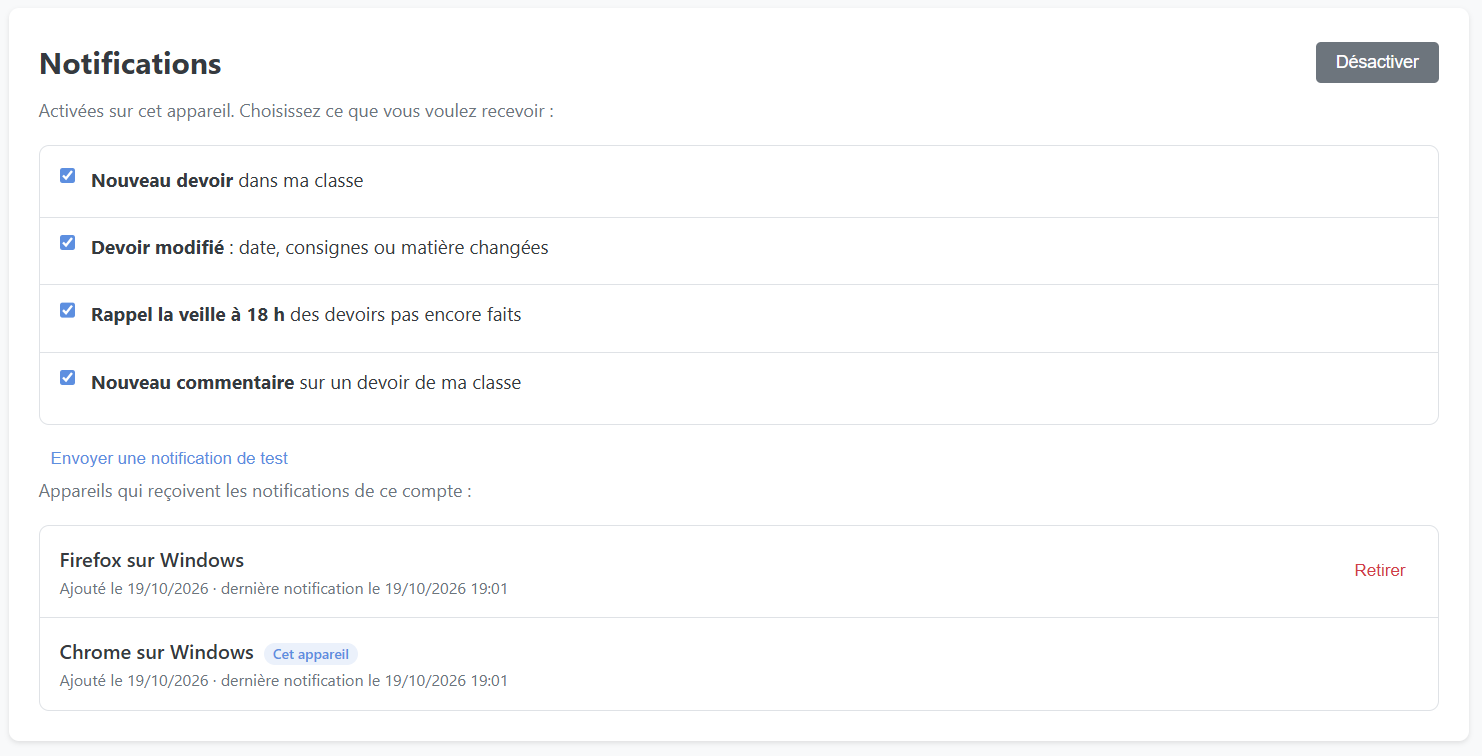
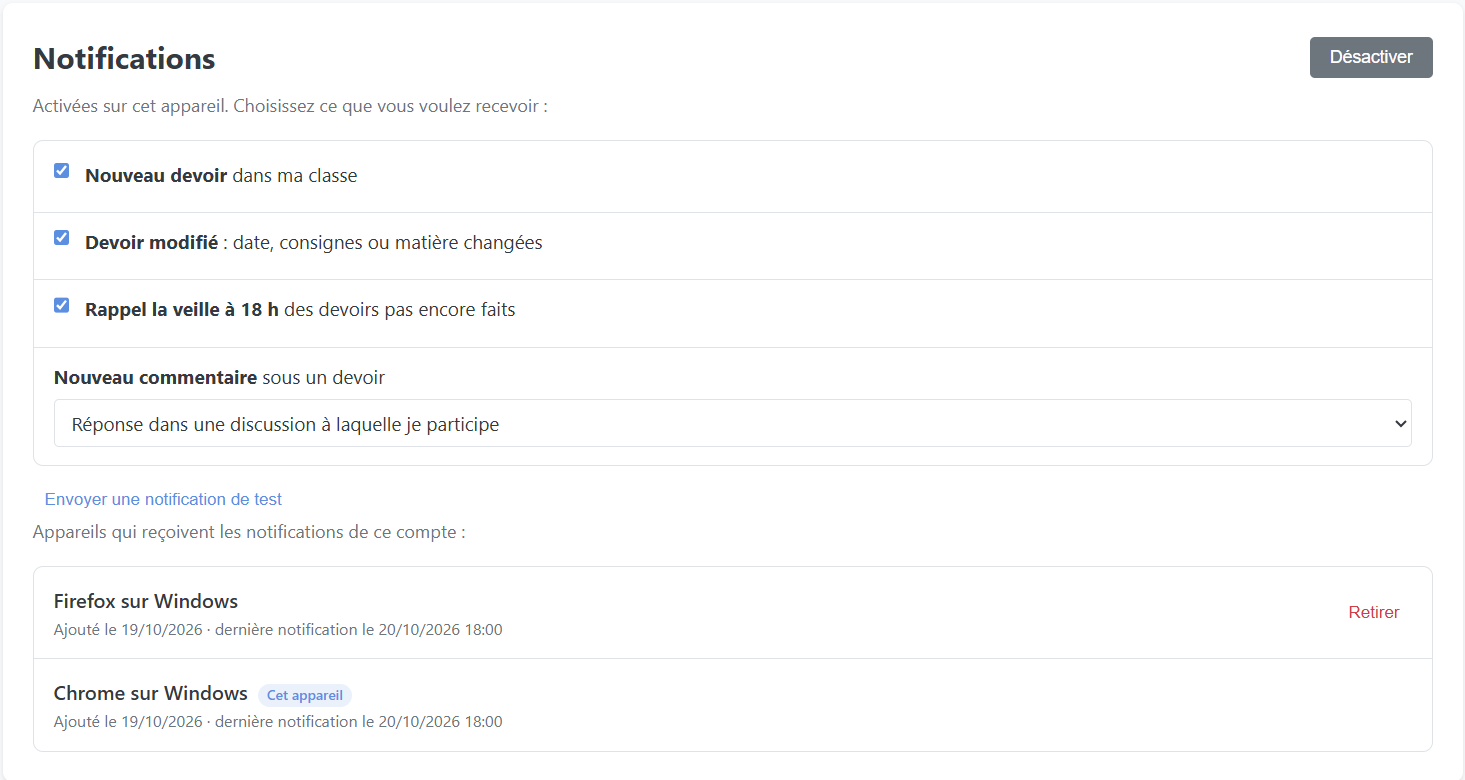
feat(push): choisir quels commentaires notifier
La préférence « Nouveau commentaire » propose désormais trois choix au lieu d'une case : tous les commentaires de la classe, seulement les discussions auxquelles l'élève participe (il a déjà commenté le devoir), ou aucun. Le choix par défaut est celui des discussions suivies, pour éviter de prévenir toute la classe à chaque message.

La migration 022, pas encore livrée, crée donc la colonne en ENUM('tous', 'participe', 'aucun'). L'envoi passe par notifyCommentaire, qui filtre les destinataires selon ce choix ; notifyClasse ne gère plus que les préférences booléennes. Dans les paramètres, la case devient une liste déroulante.

diff --git a/backend/services/push.js b/backend/services/push.js
@@ -20,8 +20,12 @@ const VAPID_SETTING_KEY = 'push_vapid_keys';
 const DEFAULT_SUBJECT = 'mailto:contact@eniv.fr';
 
 // Préférences par défaut d'un utilisateur qui n'a jamais rien réglé
-const DEFAULT_PREFERENCES = { nouveau_devoir: true, devoir_modifie: true, rappel_veille: true, nouveau_commentaire: true };
-const PREFERENCE_KEYS = Object.keys(DEFAULT_PREFERENCES);
+const DEFAULT_PREFERENCES = { nouveau_devoir: true, devoir_modifie: true, rappel_veille: true, nouveau_commentaire: 'participe' };
+const BOOLEAN_PREFERENCES = ['nouveau_devoir', 'devoir_modifie', 'rappel_veille'];
+
+// Commentaires : tous ceux de la classe, seulement les discussions où l'élève
+// a déjà écrit, ou aucun
+const COMMENTAIRE_MODES = ['tous', 'participe', 'aucun'];
 
 // Le serveur envoie un POST à l'endpoint : seuls les services push des
 // navigateurs sont acceptés, sinon un élève pourrait faire appeler une adresse
@@ -182,14 +186,19 @@ async function deleteSubscription(userId, endpoint) {
 async function getPreferences(userId) {
   const row = await db.get('SELECT * FROM push_preferences WHERE user_id = ?', [userId]);
   if (!row) return { ...DEFAULT_PREFERENCES };
-  return Object.fromEntries(PREFERENCE_KEYS.map((key) => [key, Boolean(row[key])]));
+  const prefs = Object.fromEntries(BOOLEAN_PREFERENCES.map((key) => [key, Boolean(row[key])]));
+  prefs.nouveau_commentaire = COMMENTAIRE_MODES.includes(row.nouveau_commentaire)
+    ? row.nouveau_commentaire
+    : DEFAULT_PREFERENCES.nouveau_commentaire;
+  return prefs;
 }
 
 async function setPreferences(userId, input) {
   const prefs = { ...(await getPreferences(userId)) };
-  for (const key of PREFERENCE_KEYS) {
+  for (const key of BOOLEAN_PREFERENCES) {
     if (typeof input[key] === 'boolean') prefs[key] = input[key];
   }
+  if (COMMENTAIRE_MODES.includes(input.nouveau_commentaire)) prefs.nouveau_commentaire = input.nouveau_commentaire;
   await db.run(
     `INSERT INTO push_preferences (user_id, nouveau_devoir, devoir_modifie, rappel_veille, nouveau_commentaire)
      VALUES (?, ?, ?, ?, ?)
@@ -244,12 +253,12 @@ async function sendToUser(userId, payload) {
 /**
  * Notifie tous les membres d'une classe ayant activé la préférence donnée.
  * @param {number} classeId
- * @param {'nouveau_devoir'|'devoir_modifie'|'nouveau_commentaire'} preference
+ * @param {'nouveau_devoir'|'devoir_modifie'} preference
  * @param {Object} payload - { title, body, url, tag }
  * @param {number|null} excludeUserId - auteur de l'action, qui n'a pas besoin d'être prévenu
  */
 async function notifyClasse(classeId, preference, payload, excludeUserId = null) {
-  if (!PREFERENCE_KEYS.includes(preference)) throw new Error(`Préférence inconnue : ${preference}`);
+  if (!BOOLEAN_PREFERENCES.includes(preference)) throw new Error(`Préférence inconnue : ${preference}`);
 
   const subs = await db.all(
     `SELECT ps.*
@@ -258,6 +267,34 @@ async function notifyClasse(classeId, preference, payload, excludeUserId = null)
      LEFT JOIN push_preferences pp ON pp.user_id = u.id
      WHERE u.classe_id = ? AND u.id <> ? AND COALESCE(pp.${preference}, TRUE)`,
     [classeId, excludeUserId || 0]
+  );
+  return sendToSubscriptions(subs, payload);
+}
+
+/**
+ * Prévient la classe d'un nouveau commentaire sur un devoir, selon la
+ * préférence nouveau_commentaire de chacun. Le commentaire est déjà enregistré :
+ * l'auteur est exclu, son message ne le fait donc pas compter comme participant.
+ * @param {number} classeId
+ * @param {number} devoirId
+ * @param {Object} payload - { title, body, url, tag }
+ * @param {number|null} excludeUserId - auteur du commentaire
+ */
+async function notifyCommentaire(classeId, devoirId, payload, excludeUserId = null) {
+  const subs = await db.all(
+    `SELECT ps.*
+     FROM push_subscriptions ps
+     JOIN users u ON u.id = ps.user_id
+     LEFT JOIN push_preferences pp ON pp.user_id = u.id
+     WHERE u.classe_id = ? AND u.id <> ?
+       AND CASE COALESCE(pp.nouveau_commentaire, ?)
+         WHEN 'tous' THEN TRUE
+         WHEN 'participe' THEN EXISTS (
+           SELECT 1 FROM devoir_commentaires dc WHERE dc.devoir_id = ? AND dc.user_id = u.id
+         )
+         ELSE FALSE
+       END`,
+    [classeId, excludeUserId || 0, DEFAULT_PREFERENCES.nouveau_commentaire, devoirId]
   );
   return sendToSubscriptions(subs, payload);
 }
@@ -301,6 +338,8 @@ module.exports = {
   sendToUser,
   notifyClasse,
   notifyClasseInBackground: inBackground(notifyClasse),
+  notifyCommentaire,
+  notifyCommentaireInBackground: inBackground(notifyCommentaire),
   notifyDevoirModifie,
   notifyDevoirModifieInBackground: inBackground(notifyDevoirModifie),
 };

diff --git a/test/push.test.js b/test/push.test.js
@@ -179,19 +179,32 @@ describe('abonnements', () => {
     ]);
   });
 
-  test('préférences par défaut : tout activé', async () => {
+  test('préférences par défaut : tout activé, commentaires des discussions suivies', async () => {
     fake.setHandler(() => undefined);
-    assert.deepEqual(await push.getPreferences(1), { nouveau_devoir: true, devoir_modifie: true, rappel_veille: true, nouveau_commentaire: true });
+    assert.deepEqual(await push.getPreferences(1), { nouveau_devoir: true, devoir_modifie: true, rappel_veille: true, nouveau_commentaire: 'participe' });
+  });
+
+  test('préférences lues en base : booléens et choix des commentaires', async () => {
+    const row = { user_id: 1, nouveau_devoir: 1, devoir_modifie: 0, rappel_veille: 1, nouveau_commentaire: 'tous' };
+    fake.setHandler((method, sql) => (method === 'get' && sql.includes('push_preferences') ? row : undefined));
+    assert.deepEqual(await push.getPreferences(1), { nouveau_devoir: true, devoir_modifie: false, rappel_veille: true, nouveau_commentaire: 'tous' });
   });
 
   test('préférences : nouveau_commentaire enregistré avec les autres', async () => {
     fake.calls.length = 0;
     fake.setHandler(() => undefined);
-    const prefs = await push.setPreferences(1, { nouveau_commentaire: false });
-    assert.equal(prefs.nouveau_commentaire, false);
+    const prefs = await push.setPreferences(1, { nouveau_commentaire: 'tous' });
+    assert.equal(prefs.nouveau_commentaire, 'tous');
     const insert = fake.calls.find((c) => c.method === 'run' && c.sql.includes('push_preferences'));
     assert.match(insert.sql, /nouveau_commentaire = VALUES\(nouveau_commentaire\)/);
-    assert.deepEqual(insert.params, [1, true, true, true, false]);
+    assert.deepEqual(insert.params, [1, true, true, true, 'tous']);
+  });
+
+  test('préférences : choix de commentaires inconnu ignoré', async () => {
+    fake.setHandler(() => undefined);
+    for (const value of ['x', true, false, null]) {
+      assert.equal((await push.setPreferences(1, { nouveau_commentaire: value })).nouveau_commentaire, 'participe');
+    }
   });
 });
 
@@ -246,16 +259,27 @@ describe('envoi', () => {
     assert.equal(sendMock.mock.callCount(), 1);
   });
 
-  test('notifyClasse filtre sur la préférence nouveau_commentaire', async (t) => {
-    t.mock.method(webpush, 'sendNotification', async () => ({ statusCode: 201 }));
+  test('notifyCommentaire : selon le choix de chacun, participants du devoir par défaut', async (t) => {
+    const sendMock = t.mock.method(webpush, 'sendNotification', async () => ({ statusCode: 201 }));
+    const subs = [{ id: 1, endpoint: 'https://push.example/ok', p256dh: 'p', auth: 'a' }];
     fake.calls.length = 0;
-    fake.setHandler(() => []);
-    await push.notifyClasse(5, 'nouveau_commentaire', {}, 42);
+    fake.setHandler((method) => (method === 'all' ? subs : undefined));
+
+    const payload = messages.nouveauCommentaire({ devoirId: 10, titre: 'T', auteur: 'Léa', contenu: 'Question' });
+    assert.deepEqual(await push.notifyCommentaire(5, 10, payload, 42), { sent: 1, removed: 0, failed: 0 });
+    assert.equal(sendMock.mock.callCount(), 1);
+
     const select = fake.calls.find((c) => c.method === 'all');
-    assert.match(select.sql, /COALESCE\(pp\.nouveau_commentaire, TRUE\)/);
+    assert.deepEqual(select.params, [5, 42, 'participe', 10]);
+    assert.match(select.sql, /COALESCE\(pp\.nouveau_commentaire, \?\)/);
+    assert.match(select.sql, /WHEN 'tous' THEN TRUE/);
+    assert.match(select.sql, /WHEN 'participe' THEN EXISTS \(\s*SELECT 1 FROM devoir_commentaires dc WHERE dc\.devoir_id = \? AND dc\.user_id = u\.id/);
+    assert.match(select.sql, /ELSE FALSE/);
   });
 
   test('préférence inconnue refusée (pas d\'injection dans la requête)', async () => {
     await assert.rejects(() => push.notifyClasse(1, 'x; DROP TABLE users', {}), /Préférence inconnue/);
+    // Pas un booléen : passe par notifyCommentaire
+    await assert.rejects(() => push.notifyClasse(1, 'nouveau_commentaire', {}), /Préférence inconnue/);
   });
 });

diff --git a/public/js/pages/settings.js b/public/js/pages/settings.js
@@ -206,15 +206,21 @@ async function setupPush() {
   const fieldset = document.getElementById('push-preferences');
 
   // Gestionnaires d'abord, chargements ensuite (voir init)
+  // Cases à cocher et listes de choix (la dernière valeur enregistrée d'une
+  // liste est gardée dans dataset.saved pour revenir en arrière en cas d'erreur)
   fieldset.addEventListener('change', async (e) => {
     const input = e.target;
+    const isCheckbox = input.type === 'checkbox';
     const result = await apiCall('/api/push/preferences', {
       method: 'PUT',
-      body: JSON.stringify({ [input.name]: input.checked }),
+      body: JSON.stringify({ [input.name]: isCheckbox ? input.checked : input.value }),
     });
     if (result.error) {
-      input.checked = !input.checked;
+      if (isCheckbox) input.checked = !input.checked;
+      else input.value = input.dataset.saved;
       await showAlert(result.error, 'Erreur');
+    } else if (!isCheckbox) {
+      input.dataset.saved = input.value;
     }
   });
 
@@ -242,8 +248,10 @@ async function setupPush() {
   const data = await apiCall('/api/push/preferences');
   if (!data.error) {
     for (const [key, value] of Object.entries(data.preferences)) {
-      const input = fieldset.querySelector(`input[name="${key}"]`);
-      if (input) input.checked = value;
+      const input = fieldset.querySelector(`[name="${key}"]`);
+      if (!input) continue;
+      if (input.type === 'checkbox') input.checked = value;
+      else input.value = input.dataset.saved = value;
     }
   }
 

diff --git a/test/commentaires.test.js b/test/commentaires.test.js
@@ -38,7 +38,7 @@ require.cache[realtimeFile] = { id: realtimeFile, filename: realtimeFile, loaded
 const pushes = [];
 const pushFile = path.join(__dirname, '../backend/services/push.js');
 require.cache[pushFile] = { id: pushFile, filename: pushFile, loaded: true, exports: {
-  notifyClasseInBackground: (classeId, preference, payload, excludeUserId) => pushes.push({ classeId, preference, payload, excludeUserId }),
+  notifyCommentaireInBackground: (classeId, devoirId, payload, excludeUserId) => pushes.push({ classeId, devoirId, payload, excludeUserId }),
 } };
 
 const realtimeNotifier = require('../backend/middleware/realtimeNotifier');
@@ -121,13 +121,13 @@ describe('commentaires', () => {
     assert.equal((await call(1, 'POST', '/10/commentaires', { contenu: 'Moi aussi' })).status, 200);
   });
 
-  test('push : la classe est prévenue, sauf l\'auteur', async () => {
+  test('push : la classe est prévenue selon les préférences, sauf l\'auteur', async () => {
     pushes.length = 0;
     assert.equal((await call(1, 'POST', '/10/commentaires', { contenu: 'C\'est pour lundi ?' })).status, 200);
     assert.equal(pushes.length, 1);
     assert.deepEqual(pushes[0], {
       classeId: 4,
-      preference: 'nouveau_commentaire',
+      devoirId: 10,
       payload: {
         title: '💬 Exercice 3',
         body: 'Léa Martin : C\'est pour lundi ?',

diff --git a/public/settings/index.html b/public/settings/index.html
@@ -145,9 +145,13 @@
           <input type="checkbox" name="rappel_veille">
           <span><strong>Rappel la veille à 18 h</strong> des devoirs pas encore faits</span>
         </label>
-        <label class="push-pref">
-          <input type="checkbox" name="nouveau_commentaire">
-          <span><strong>Nouveau commentaire</strong> sur un devoir de ma classe</span>
+        <label class="push-pref push-pref-choix">
+          <span><strong>Nouveau commentaire</strong> sous un devoir</span>
+          <select name="nouveau_commentaire">
+            <option value="participe">Réponse dans une discussion à laquelle je participe</option>
+            <option value="tous">Tout commentaire sur un devoir de ma classe</option>
+            <option value="aucun">Jamais</option>
+          </select>
         </label>
       </fieldset>
       <button type="button" id="push-test-btn" class="btn-link" hidden>Envoyer une notification de test</button>

diff --git a/backend/migrations/022_add_nouveau_commentaire_to_push_preferences.js b/backend/migrations/022_add_nouveau_commentaire_to_push_preferences.js
@@ -1,5 +1,8 @@
 // Migration: Ajouter la préférence nouveau_commentaire à push_preferences
-// (notification push quand un commentaire est posté sur un devoir de la classe)
+// (notification push quand un commentaire est posté sur un devoir de la classe) :
+// - tous : chaque commentaire sur un devoir de la classe
+// - participe : seulement les devoirs où l'élève a déjà écrit un commentaire
+// - aucun : jamais
 
 module.exports = {
   up: async (pool) => {
@@ -9,7 +12,7 @@ module.exports = {
     try {
       await connection.query(`
         ALTER TABLE push_preferences
-        ADD COLUMN nouveau_commentaire BOOLEAN NOT NULL DEFAULT TRUE AFTER rappel_veille
+        ADD COLUMN nouveau_commentaire ENUM('tous', 'participe', 'aucun') NOT NULL DEFAULT 'participe' AFTER rappel_veille
       `);
       console.log('  ✓ Colonne nouveau_commentaire ajoutée');
     } finally {

diff --git a/backend/routes/commentaires.js b/backend/routes/commentaires.js
@@ -80,7 +80,7 @@ router.post('/', commentLimiter, express.json(), devoirDeLaClasse, async (req, r
     await joindreNombre(req, res);
 
     const auteur = [req.user.prenom, req.user.nom].filter(Boolean).join(' ') || req.user.username;
-    push.notifyClasseInBackground(req.user.classe_id, 'nouveau_commentaire',
+    push.notifyCommentaireInBackground(req.user.classe_id, res.locals.devoir.id,
       pushMessages.nouveauCommentaire({ devoirId: res.locals.devoir.id, titre: res.locals.devoir.titre, auteur, contenu }),
       req.user.id);
 

diff --git a/public/css/settings.css b/public/css/settings.css
@@ -619,3 +619,15 @@ html.dark-theme .optional {
 .push-preferences:disabled .push-pref {
   cursor: not-allowed;
 }
+
+/* Préférence à plusieurs choix : libellé, puis liste déroulante en dessous */
+.push-pref-choix {
+  flex-direction: column;
+  gap: 0.4rem;
+}
+
+.push-pref-choix select {
+  margin-bottom: 0;
+  padding: 0.45rem 0.6rem;
+  font-size: 0.95rem;
+}
